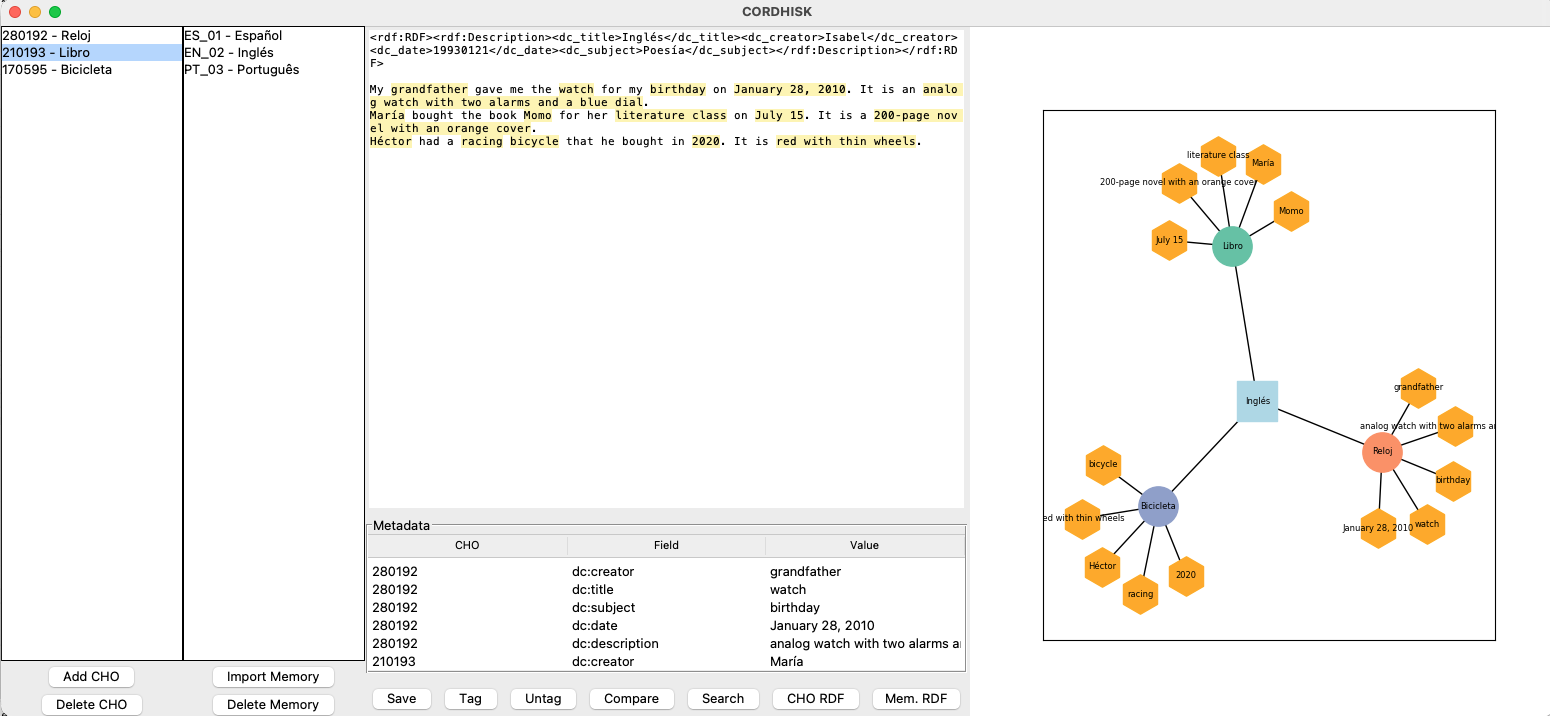
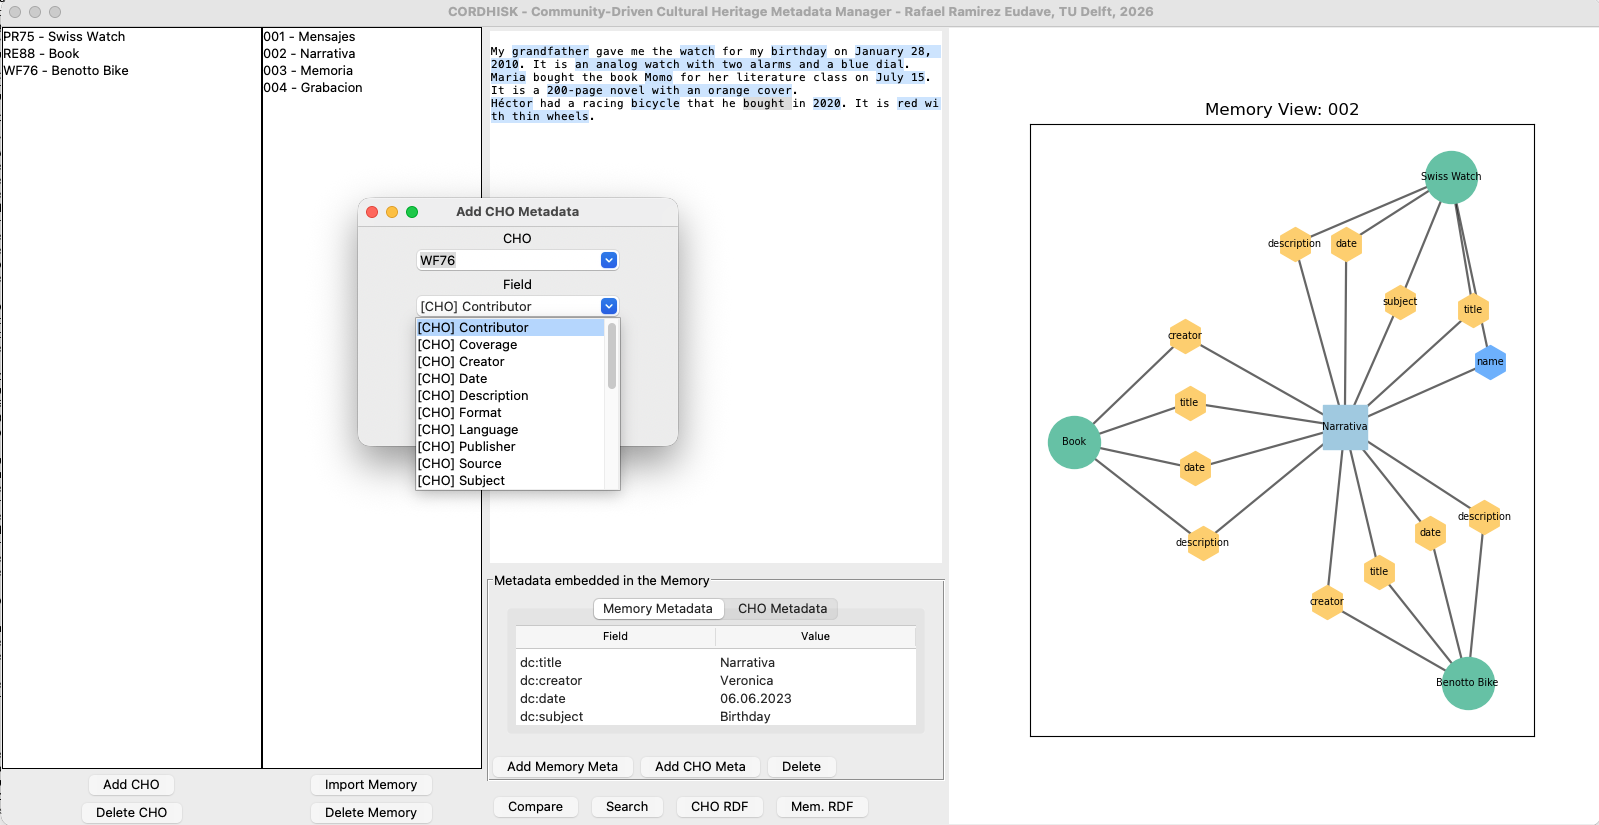
Edited graph so ti shows memory metadata when clicking

diff --git a/features/graph.py b/features/graph.py
@@ -30,6 +30,9 @@ def get_metadata_color(metadata_type, field):
 # =========================
 def generate_graph(frame, state):
 
+    if not hasattr(state, "expanded_memories"):
+        state.expanded_memories = set()
+
     if not state.current_cho and not state.current_memory:
         messagebox.showinfo("Info", "Select CHO or Memory first")
         return
@@ -41,8 +44,6 @@ def generate_graph(frame, state):
     G = nx.Graph()
     node_types = {}
     node_data = {}
-
-    # ✅ count occurrences
     node_counts = defaultdict(int)
 
     # =========================
@@ -52,26 +53,30 @@ def generate_graph(frame, state):
         m = state.current_memory
         mn = f"memory:{m.custom_id}"
 
+        G.add_node(mn)
+
         node_types[mn] = "memory"
         node_data[mn] = m
 
         for md in extract_metadata(m.text):
 
-            key = f"{md['field']}::{md['value']}"
+            key = f"{md.get('field')}::{md.get('value')}"
 
-            # MEMORY METADATA
-            if md.get("type") == MetadataType.MEMORY.value:
+            if md.get("type") == MetadataType.MEMORY.value or md.get("type") == MetadataType.MEMORY:
+
+                # ✅ FIX: ensure same type (string comparison)
+                if str(m.custom_id) not in state.expanded_memories:
+                    continue
+
                 mmd_node = f"memory_metadata:{key}"
 
                 G.add_edge(mn, mmd_node)
-
                 node_types[mmd_node] = "memory_metadata"
                 node_data[mmd_node] = md
                 node_counts[mmd_node] += 1
 
-            # CHO METADATA
             else:
-                cn = f"CHO:{md['cho']}"
+                cn = f"CHO:{md.get('cho')}"
                 cmd_node = f"cho_metadata:{key}"
 
                 G.add_edges_from([
@@ -80,7 +85,7 @@ def generate_graph(frame, state):
                 ])
 
                 node_types[cn] = "cho"
-                node_data[cn] = md["cho"]
+                node_data[cn] = md.get("cho")
 
                 node_types[cmd_node] = "cho_metadata"
                 node_data[cmd_node] = md
@@ -93,6 +98,8 @@ def generate_graph(frame, state):
         cid = state.current_cho
         cn = f"CHO:{cid}"
 
+        G.add_node(cn)
+
         node_types[cn] = "cho"
         node_data[cn] = cid
 
@@ -103,7 +110,7 @@ def generate_graph(frame, state):
             cho_md = []
 
             for md in extract_metadata(m.text):
-                if md.get("type") == MetadataType.MEMORY.value:
+                if md.get("type") == MetadataType.MEMORY.value or md.get("type") == MetadataType.MEMORY:
                     memory_md.append(md)
                 elif md.get("cho") == cid:
                     memory_connected = True
@@ -113,12 +120,14 @@ def generate_graph(frame, state):
                 continue
 
             mn = f"memory:{m.custom_id}"
+
+            G.add_node(mn)
+
             node_types[mn] = "memory"
             node_data[mn] = m
 
-            # CHO METADATA
             for md in cho_md:
-                key = f"{md['field']}::{md['value']}"
+                key = f"{md.get('field')}::{md.get('value')}"
                 cmd_node = f"cho_metadata:{key}"
 
                 G.add_edges_from([
@@ -130,13 +139,15 @@ def generate_graph(frame, state):
                 node_data[cmd_node] = md
                 node_counts[cmd_node] += 1
 
-            # MEMORY METADATA
             for md in memory_md:
-                key = f"{md['field']}::{md['value']}"
+                # ✅ FIX: string comparison
+                if str(m.custom_id) not in state.expanded_memories:
+                    continue
+
+                key = f"{md.get('field')}::{md.get('value')}"
                 mmd_node = f"memory_metadata:{key}"
 
                 G.add_edge(mn, mmd_node)
-
                 node_types[mmd_node] = "memory_metadata"
                 node_data[mmd_node] = md
                 node_counts[mmd_node] += 1
@@ -166,11 +177,15 @@ def generate_graph(frame, state):
         ntype = node_types[node]
 
         if ntype == "memory":
-            color = "#9ecae1"
+            mem_id = node.split(":")[1]
+            color = "#3182bd" if mem_id in state.expanded_memories else "#9ecae1"
         elif ntype == "memory_metadata":
             color = "#a1d99b"
         elif ntype == "cho_metadata":
-            color = get_metadata_color(MetadataType.CHO.value, node_data[node]["field"])
+            color = get_metadata_color(
+                MetadataType.CHO.value,
+                node_data[node].get("field", "")
+            )
         elif ntype == "cho":
             color = "#66c2a5"
         else:
@@ -193,13 +208,10 @@ def generate_graph(frame, state):
             ax=ax
         )
 
-    # =========================
-    # EDGES
-    # =========================
     nx.draw_networkx_edges(G, pos, width=1.6, alpha=0.6, ax=ax)
 
     # =========================
-    # LABELS WITH COUNTS
+    # LABELS
     # =========================
     labels = {}
     for node in G.nodes:
@@ -210,22 +222,18 @@ def generate_graph(frame, state):
             labels[node] = get_memory_title(data.text, data.custom_id)
 
         elif ntype in ["memory_metadata", "cho_metadata"]:
-            field = data["field"].split(":")[-1]
+            field = data.get("field", "").split(":")[-1]
             count = node_counts[node]
-
-            if count > 1:
-                labels[node] = f"{field} ({count})"
-            else:
-                labels[node] = field
+            labels[node] = f"{field} ({count})" if count > 1 else field
 
         elif ntype == "cho":
             cho_obj = session.query(CHO).filter_by(custom_id=data).first()
-            labels[node] = cho_obj.title if cho_obj else data
+            labels[node] = cho_obj.title if cho_obj else str(data)
 
     nx.draw_networkx_labels(G, pos, labels=labels, font_size=7, ax=ax)
 
     # =========================
-    # TOOLTIP ON HOVER
+    # TOOLTIP
     # =========================
     tooltip = ax.annotate(
         "",
@@ -242,13 +250,10 @@ def generate_graph(frame, state):
 
         for node, (x, y) in pos.items():
             if abs(event.xdata - x) < 0.05 and abs(event.ydata - y) < 0.05:
-
-                ntype = node_types[node]
-                data = node_data.get(node)
-
-                if ntype in ["memory_metadata", "cho_metadata"]:
+                if node_types[node] in ["memory_metadata", "cho_metadata"]:
+                    data = node_data[node]
                     tooltip.xy = (x, y)
-                    tooltip.set_text(f"{data['field']}\n{data['value']}")
+                    tooltip.set_text(f"{data.get('field')}\n{data.get('value')}")
                     tooltip.set_visible(True)
                     fig.canvas.draw_idle()
                     return
@@ -257,6 +262,29 @@ def generate_graph(frame, state):
         fig.canvas.draw_idle()
 
     fig.canvas.mpl_connect("motion_notify_event", on_move)
+
+    # =========================
+    # CLICK HANDLER
+    # =========================
+    def on_click(event):
+        if event.xdata is None:
+            return
+
+        for node, (x, y) in pos.items():
+            if abs(event.xdata - x) < 0.05 and abs(event.ydata - y) < 0.05:
+
+                if node_types[node] == "memory":
+                    mem_id = node.split(":")[1]  # string
+
+                    if mem_id in state.expanded_memories:
+                        state.expanded_memories.remove(mem_id)
+                    else:
+                        state.expanded_memories.add(mem_id)
+
+                    generate_graph(frame, state)
+                    return
+
+    fig.canvas.mpl_connect("button_press_event", on_click)
 
     # =========================
     # FINALIZE

diff --git a/services/metadata.py b/services/metadata.py
@@ -188,36 +188,60 @@ def parse_text_and_spans(text):
             "type": MetadataType.MEMORY.value
         })
 
-# =========================
-# EXTRACT METADATA
+import re
+
+# EXTRACT METADATA (SAFE)# =========================
 # =========================
 def extract_metadata(text):
 
     if not text:
         return []
 
-    # remove memory metadata block
-    text = re.sub(
+    metadata = []
+
+    # =========================
+    # 1. EXTRACT MEMORY BLOCK (WITHOUT DELETING IT YET)
+    # =========================
+    memory_blocks = re.findall(
+        r'=== MEMORY METADATA START ===(.*?)=== MEMORY METADATA END ===',
+        text,
+        flags=re.DOTALL
+    )
+
+    # =========================
+    # 2. PARSE MEMORY METADATA
+    # =========================
+    for block in memory_blocks:
+        for m in COMBINED_RE.finditer(block):
+            metadata.append({
+                "field": m.group("field"),
+                "cho": None,  # ✅ explicitly None for memory metadata
+                "value": m.group("value"),
+                "type": MetadataType.MEMORY.value
+            })
+
+    # =========================
+    # 3. REMOVE MEMORY BLOCK FROM TEXT (for CHO parsing only)
+    # =========================
+    text_wo_memory = re.sub(
         r'=== MEMORY METADATA START ===.*?=== MEMORY METADATA END ===',
         '',
         text,
         flags=re.DOTALL
     )
 
-    metadata = []
-
-    for m in COMBINED_RE.finditer(text):
+    # =========================
+    # 4. PARSE REMAINING (CHO METADATA)
+    # =========================
+    for m in COMBINED_RE.finditer(text_wo_memory):
         metadata.append({
             "field": m.group("field"),
             "cho": m.group("cho"),
             "value": m.group("value"),
-            "type": MetadataType.MEMORY.value
-                if m.group("type") == "memory"
-                else MetadataType.CHO.value
+            "type": MetadataType.CHO.value
         })
 
     return metadata
-
 
 # =========================
 # MEMORY TITLE